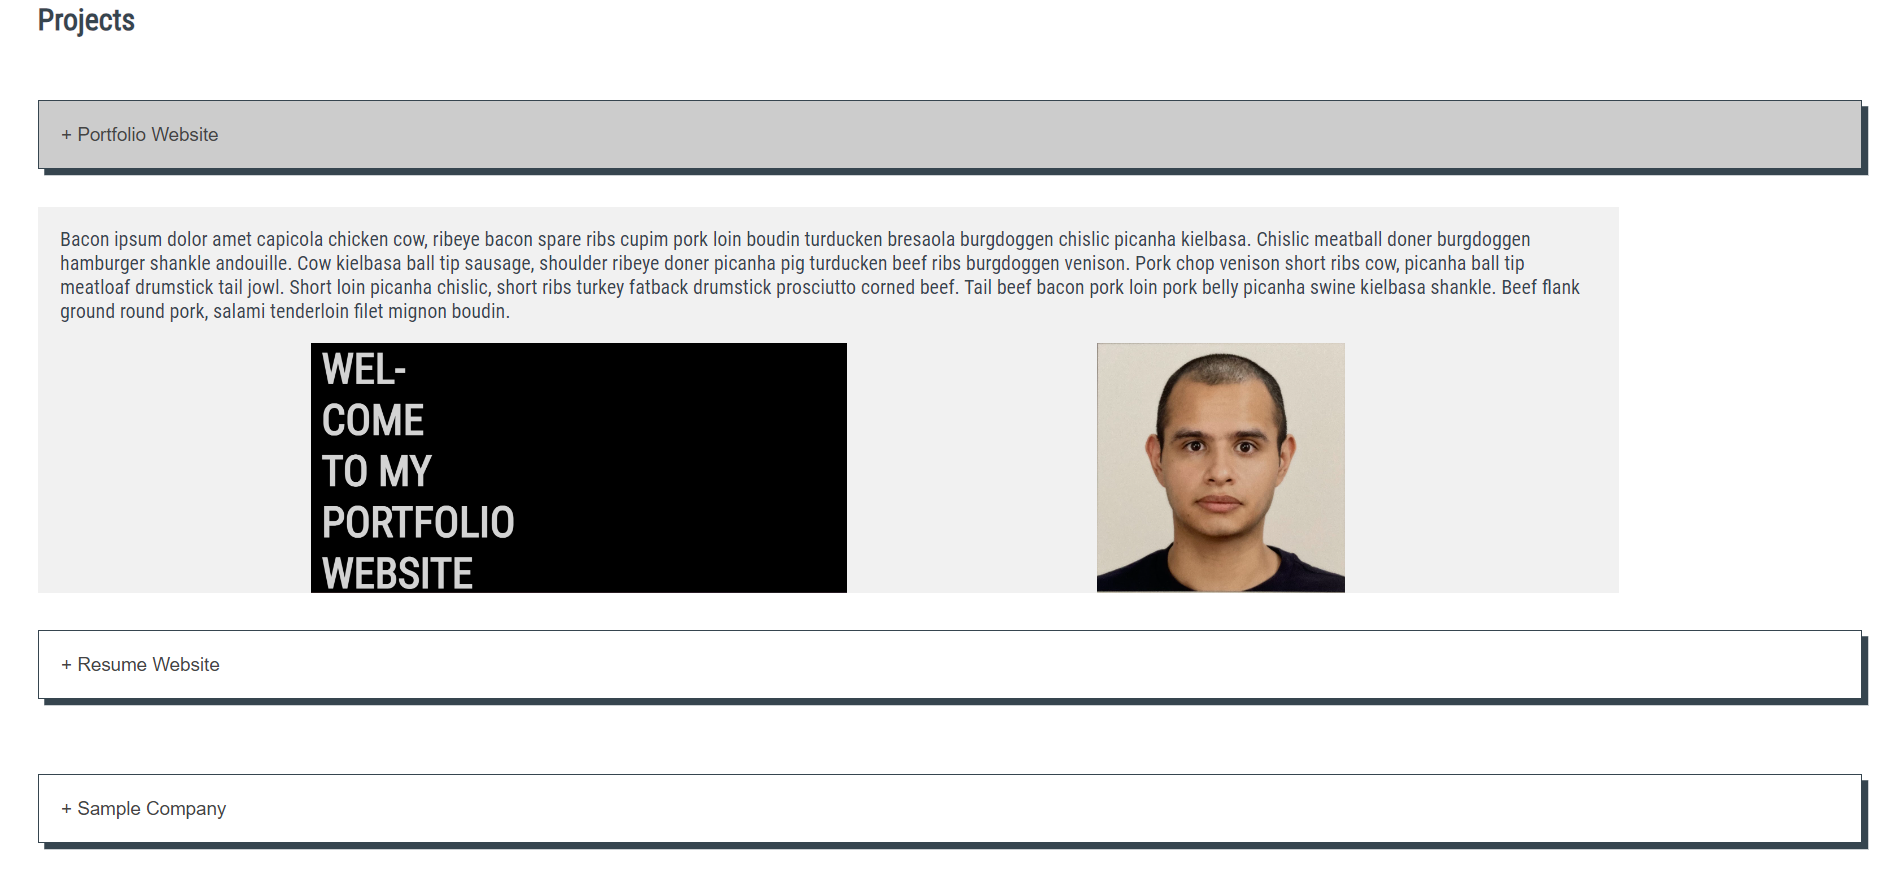
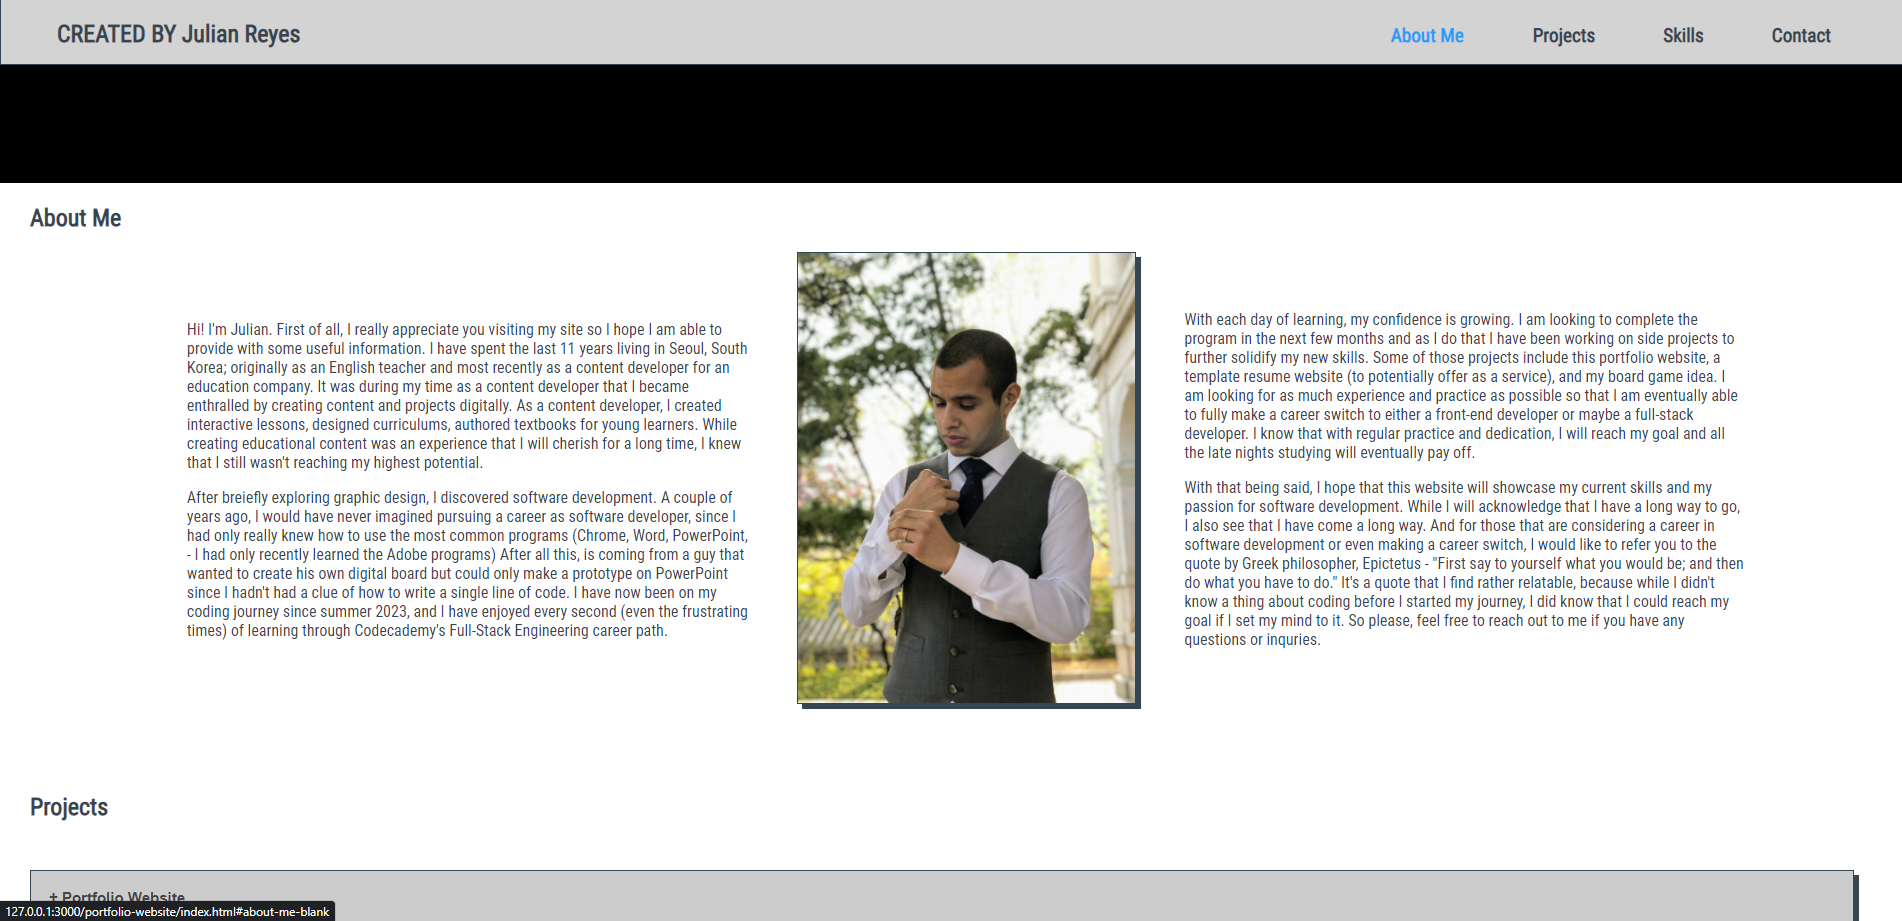
update 09-27-2023

diff --git a/index.html b/index.html
@@ -11,7 +11,7 @@
     <nav class="container">
         <p id="nav-name"> CREATED BY Julian Reyes</p>
         <ul class="nav-container">
-            <li><a href="#about-me-blank">About Me</a></li>
+            <li id="list-about-me"><a href="#about-me-blank">About Me</a></li>
             <li><a href="#projects-blank">Projects</a></li>
             <li><a href="#skills-blank">Skills</a></li>
             <li><a href="./contact-page.html">Contact</a></li>
@@ -46,7 +46,9 @@
         <h2 id="projects">Projects</h2>
         <button type="button" class="collapsible">+ Portfolio Website</button>
         <div class="content">
-            <p>Bacon ipsum dolor amet capicola chicken cow, ribeye bacon spare ribs cupim pork loin boudin turducken bresaola burgdoggen chislic picanha kielbasa. Chislic meatball doner burgdoggen hamburger shankle andouille. Cow kielbasa ball tip sausage, shoulder ribeye doner picanha pig turducken beef ribs burgdoggen venison. Pork chop venison short ribs cow, picanha ball tip meatloaf drumstick tail jowl. Short loin picanha chislic, short ribs turkey fatback drumstick prosciutto corned beef. Tail beef bacon pork loin pork belly picanha swine kielbasa shankle. Beef flank ground round pork, salami tenderloin filet mignon boudin.</p>
+            <p>This Portfolio Website is my first major project. This site contains the work that displays my abilities in web developement and front-end development. You can find a brieft self-introduction, projects, my skills, and my contact information on this site. Feel free to explore and click on the various interactive links and buttons. Additionally, you can resize the broswer's window to scrutinize the responsiveness of the site.</p>
+            <p>As for the design of this site, I decided to try something a bit different from what I am used to. Normally, when styling boxes, I like to have rounded edges and blurry shadow effects. Here, you can see I went with sharp corners and more defined shadows. I have seen this done on Codecademy's website and it has really grown on me. Lastly, I think the simple color scheme that I went with makes for a more modern look.</p>
+            <p>Oh, one more thing... I expect I can keep this updated sort of like a living document. I want update my profile to include new projects.</p>
             <section class="image-container">
                 <img src="./resources/portfolio-website-screenshot-1.png" alt="screenshot of Portfolio Website banner">
                 <img src="./resources/portfolio-website-screenshot-2.png" alt="screenshot of Portfolio Website content">
@@ -54,7 +56,8 @@
         </div>
         <button type="button" class="collapsible">+ Resume Website</button>
         <div class="content">
-            <p>Bacon ipsum dolor amet capicola chicken cow, ribeye bacon spare ribs cupim pork loin boudin turducken bresaola burgdoggen chislic picanha kielbasa. Chislic meatball doner burgdoggen hamburger shankle andouille. Cow kielbasa ball tip sausage, shoulder ribeye doner picanha pig turducken beef ribs burgdoggen venison. Pork chop venison short ribs cow, picanha ball tip meatloaf drumstick tail jowl. Short loin picanha chislic, short ribs turkey fatback drumstick prosciutto corned beef. Tail beef bacon pork loin pork belly picanha swine kielbasa shankle. Beef flank ground round pork, salami tenderloin filet mignon boudin.</p>
+            <p>As a side project, I have also created a Resume Website. While it shares some similarities with the Portfolio Website, there are some obvious differences. The Resume website works much like a typical website and provides my education and work history, the Portfolio Website focuses on my coding projects. I hope to use both to provide to potential employers.</p>
+            <p>Furthermore, I am also hoping that the Resume Website could work as a template of sorts, in order to provide a paid service for teachers or any other person interested in a resume website. I feel this approach could be profitable since resume websites are less common and could help someone standout in an interview process.</p>
             <section class="image-container">
                 <img src="./resources/resume-website-1.png" alt="screenshot of Resume website banner">
                 <img src="./resources/resume-website-2.png" alt="screenshot of resume website content">
@@ -62,7 +65,8 @@
         </div>
         <button type="button" class="collapsible">+ Sample Club Website</button>
         <div class="content">
-            <p>Bacon ipsum dolor amet capicola chicken cow, ribeye bacon spare ribs cupim pork loin boudin turducken bresaola burgdoggen chislic picanha kielbasa. Chislic meatball doner burgdoggen hamburger shankle andouille. Cow kielbasa ball tip sausage, shoulder ribeye doner picanha pig turducken beef ribs burgdoggen venison. Pork chop venison short ribs cow, picanha ball tip meatloaf drumstick tail jowl. Short loin picanha chislic, short ribs turkey fatback drumstick prosciutto corned beef. Tail beef bacon pork loin pork belly picanha swine kielbasa shankle. Beef flank ground round pork, salami tenderloin filet mignon boudin.</p>
+            <p>Here is one of the first webpages that I published on GitHub. I created as part of one the projects in Codecademy to practice making responsive sites. While most of the content is fictious, it was based on my interest for investing so I especially had fun making that simple site. </p>
+            <p>Click <a title="Sample Club Website" href="https://jreyes73.github.io/BIOS---Responsive-Website/">here</a> to visit the site.</p> 
             <section class="image-container">
                 <img src="./resources/sample-club-website-1.png" alt="screenshot of sample Club Website banner">
                 <img src="./resources/sample-club-website-2.png" alt="screenshot of sample club wesite content">
@@ -93,17 +97,21 @@
             <p>Bacon ipsum dolor amet capicola chicken cow, ribeye bacon spare ribs cupim pork loin boudin turducken bresaola burgdoggen chislic picanha kielbasa. Chislic meatball doner burgdoggen hamburger shankle andouille. Cow kielbasa ball tip sausage, shoulder ribeye doner picanha pig turducken beef ribs burgdoggen venison. Pork chop venison short ribs cow, picanha ball tip meatloaf drumstick tail jowl. Short loin picanha chislic, short ribs turkey fatback drumstick prosciutto corned beef. Tail beef bacon pork loin pork belly picanha swine kielbasa shankle. Beef flank ground round pork, salami tenderloin filet mignon boudin.</p>            
             <section class="image-container">
                 <section class="skills-box">
-                    <p>Adaptability leads to success if your really try</p>
+                    <p>Adaptability</p>
                 </section>
                 <section class="skills-box">
-                    <p>Teamwork & Communication</p>
+                    <p>Communication</p>
                 </section>
                 <section class="skills-box">
                     <p>Problem Solving</p>
                 </section>
                 <section class="skills-box">
+                    <p>Collaboration</p>
+                </section>
+                <section class="skills-box">
                     <p>Striving to Improve</p>
                 </section>
+                
             </section>
         </div>
         </section>

diff --git a/resources/style.css b/resources/style.css
@@ -16,6 +16,11 @@ nav {
     font-size: 1.5rem;
     padding-left: 0.5rem;
     margin-top: 1.2rem;
+    min-width: 252px;
+}
+
+#list-about-me {
+    min-width: 74px;
 }
 
 .container {
@@ -109,7 +114,7 @@ h1 {
 }
 
 #about-me-text-1, #about-me-text-2 {
-    width: 400px;
+    width: 30%;
 }
 
 
@@ -178,6 +183,7 @@ button {
     gap: 5rem;
     margin-top: 2rem;
     margin-bottom: 2rem;
+    flex-wrap: wrap;
 }
 
 .image-container img {
@@ -213,6 +219,7 @@ button {
 
 .skills-box {
     display: flex;
+    justify-content: center;
     height: 200px;
     width: 200px;
     border: 1px solid #36454f;
@@ -222,6 +229,8 @@ button {
     text-align: center;
     font-weight: 800;
 }
+
+
 
 #contact-final-container {
     display: flex;
@@ -288,4 +297,88 @@ hr {
     background-image: url(./instagram-logo.jpg);
     background-size: 100%;
     background-repeat: no-repeat;
+}
+
+@media only screen and (min-width:1400px) {
+    #about-me-section {
+        align-items: center;
+    }
+    
+}
+
+@media only screen and (max-width: 1300px) {
+    #about-me-section {
+        flex-direction: column;
+        align-items: center;
+    }
+
+    #about-me-text-1, #about-me-text-2 {
+        width: 80%;
+    }
+}
+
+
+@media only screen and (max-width: 815px) {
+    #nav-name {
+        display: none;
+    }
+
+    .nav-container {
+        padding-left: 0;
+        padding-right: 0;
+        justify-content: center;
+        margin-right: 0;
+    }
+
+    .container {
+        padding-left: 0;
+        justify-content: center;
+    }
+}
+
+@media only screen and (max-width: 650px) {
+    .contact-container {
+        width: 80%;
+    }
+}
+
+@media only screen and (max-width: 580px) {
+    #header-text {
+        font-size: 4rem;
+    }
+    
+}
+
+@media only screen and (max-width: 615px) {
+    .skills-box {
+        height: 450px;
+        width: 450px;
+        font-size: 2.75rem;
+    }
+}
+
+@media only screen and (min-height: 750px ) {
+    #header-text {
+        font-size: 6rem;
+    }
+
+    h1 {
+        margin-bottom: 2rem;
+    }
+}
+
+@media only screen and (max-width: 700px) and (min-height: 750px){
+    #header-text {
+        font-size: 4rem;
+    }
+
+    h1 {
+        margin-bottom: 0rem;
+        height: 110px;
+    }
+
+    header {
+        height: 65vh;
+    }
+    
 }
